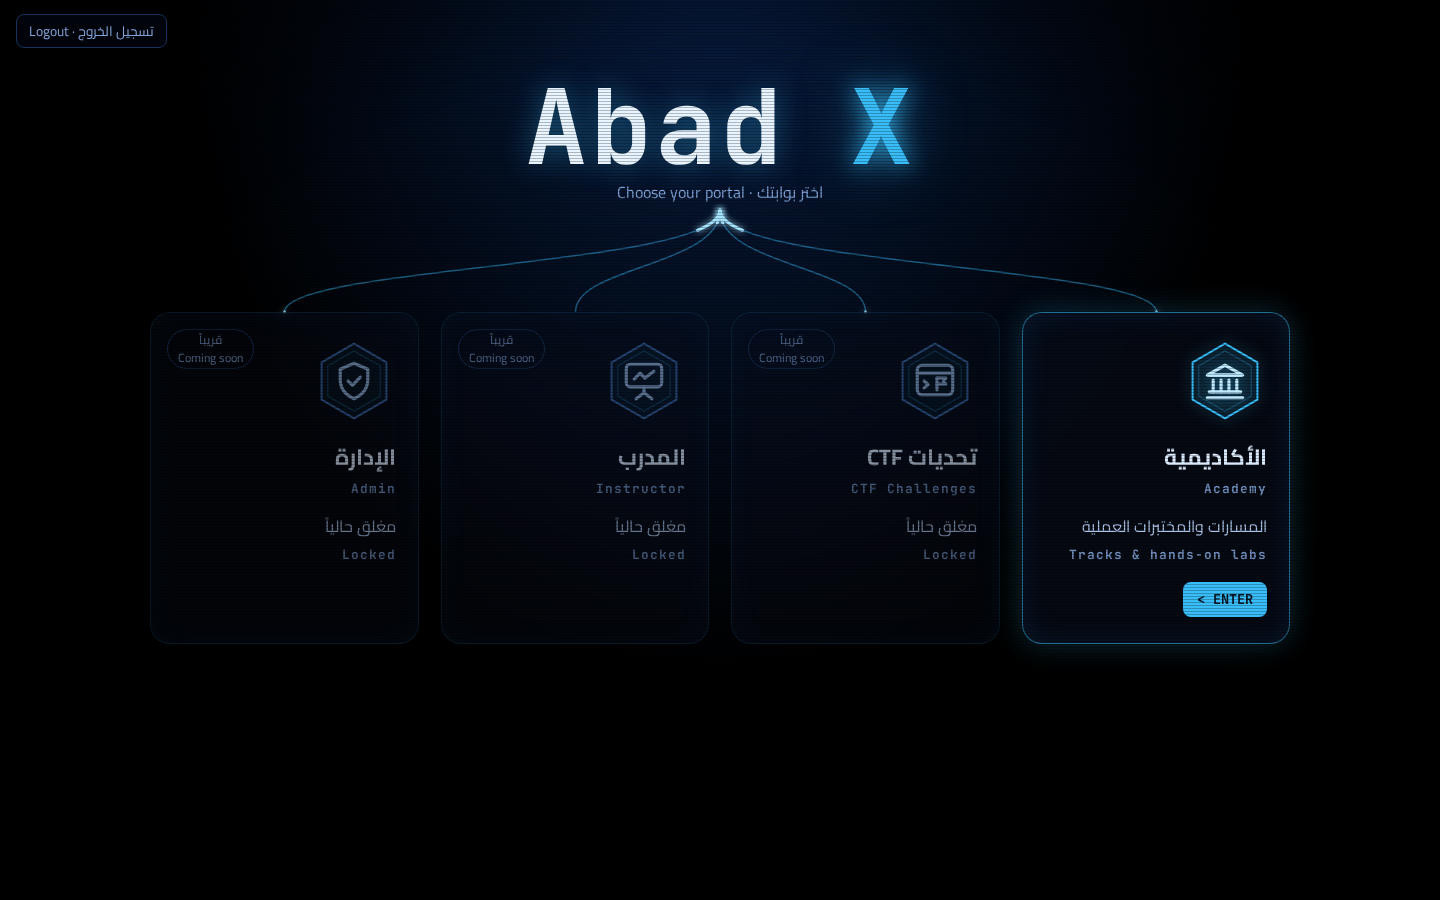
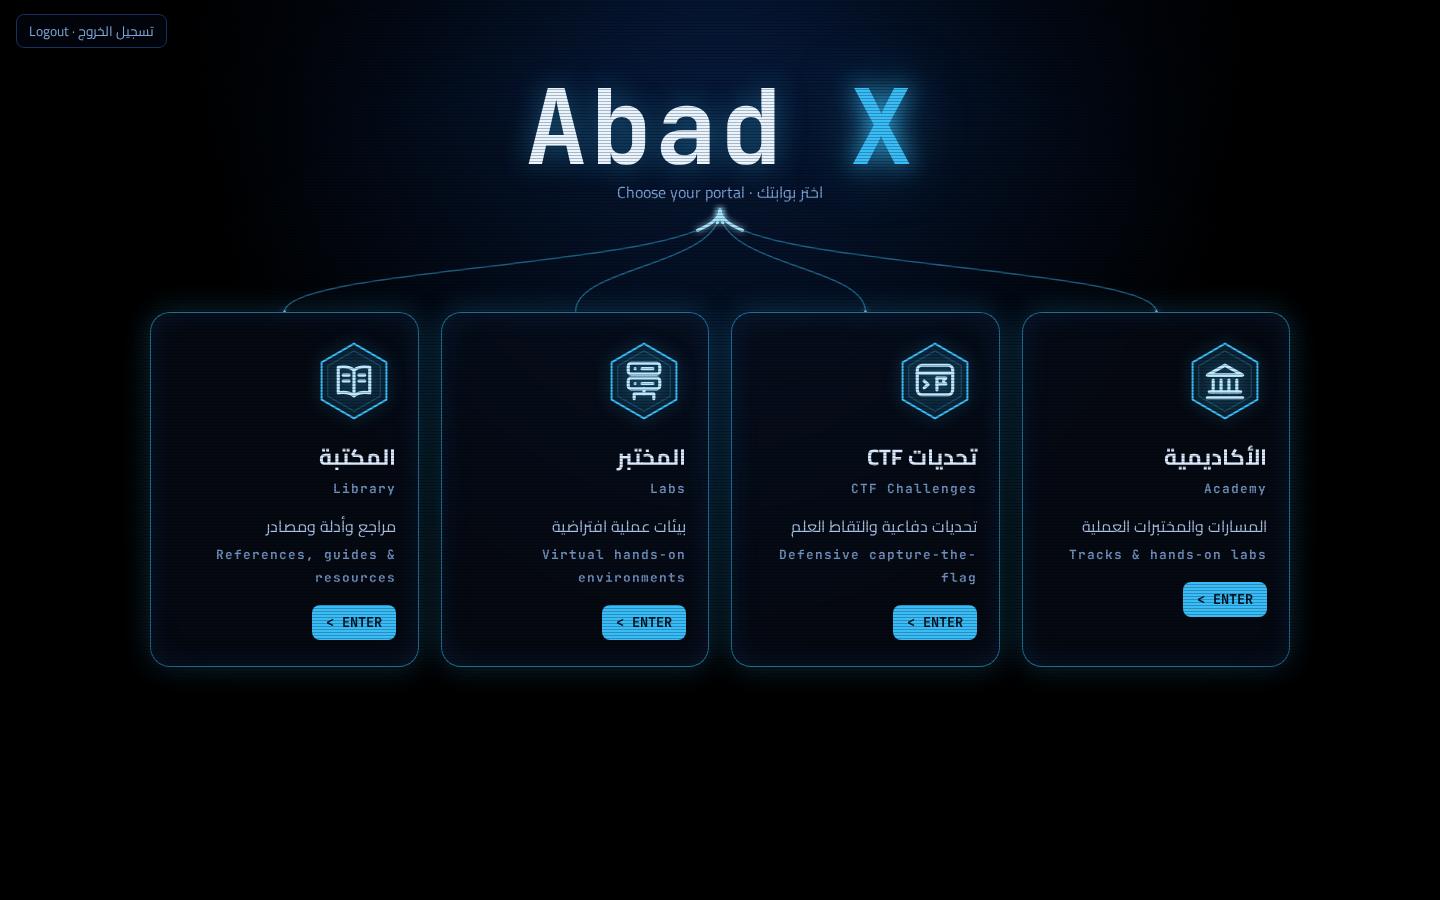
Portal: four active cards (Academy, CTF, Labs, Library) + placeholders

Changed region(s): [[0.0938, 0.3422, 0.875, 0.7467], [0.625, 0.3733, 0.6875, 0.4667], [0.3438, 0.3733, 0.375, 0.4044]]

diff --git a/portal.html b/portal.html
@@ -25,9 +25,6 @@ body:after{content:"";position:fixed;inset:0;pointer-events:none;z-index:9;backg
 .emb{width:84px;height:84px;display:block;margin-bottom:14px;overflow:visible;filter:drop-shadow(0 0 8px rgba(56,189,248,.55))}
 .emb .fr{fill:rgba(56,189,248,.06);stroke:#38bdf8;stroke-width:1.5;stroke-linejoin:round}.emb .fr2{fill:none;stroke:#38bdf8;stroke-opacity:.25;stroke-width:1}
 .emb .gl{fill:none;stroke:#bfe9ff;stroke-width:1.6;stroke-linecap:round;stroke-linejoin:round}
-.pc.lock .emb{filter:none}.pc.lock .emb .fr{stroke:#3b6aa8}.pc.lock .emb .gl{stroke:#8fb0d8}
-.pc.lock{opacity:.6;cursor:not-allowed}.pc.lock .ic{filter:grayscale(.6)}
-.soon{position:absolute;top:16px;left:16px;font-size:.75rem;border:1px solid #1d3a66;color:#7fa3d6;border-radius:99px;padding:1px 10px;text-align:center;line-height:1.5}
 .wires{position:absolute;top:0;left:0;z-index:1;pointer-events:none;overflow:visible}
 .wb{fill:none;stroke:rgba(56,189,248,.45);stroke-width:1.5}
 .wp{fill:none;stroke:#a5e4ff;stroke-width:3;stroke-linecap:round;stroke-dasharray:70 930;stroke-dashoffset:1000;animation:pulse 2.8s linear infinite}
@@ -40,9 +37,9 @@ body:after{content:"";position:fixed;inset:0;pointer-events:none;z-index:9;backg
 <h1 class="wm" id="wm">Abad <b>X</b><small>اختر بوابتك · Choose your portal</small></h1>
 <nav class="cards" aria-label="البوابات">
 <a class="pc on" href="academy.html"><svg class="emb" viewBox="0 0 64 64" aria-hidden="true"><path class="fr" d="M32 3.5 56.7 17.75v28.5L32 60.5 7.3 46.25v-28.5z"/><path class="fr2" d="M32 9 52 20.5v23L32 55 12 43.5v-23z"/><g class="gl" transform="translate(14 14) scale(1.5)"><path d="M3 9 12 4l9 5z"/><path d="M4 9h16"/><path d="M6 11.5v6"/><path d="M10 11.5v6"/><path d="M14 11.5v6"/><path d="M18 11.5v6"/><path d="M4 17.5h16"/><path d="M3 20.5h18"/></g></svg><h2>الأكاديمية <span class="en">Academy</span></h2><p>المسارات والمختبرات العملية <span class="en">Tracks &amp; hands-on labs</span></p><span class="go" aria-hidden="true">ENTER &gt;</span></a>
-<div class="pc lock" aria-disabled="true"><span class="soon">قريباً<br>Coming soon</span><svg class="emb" viewBox="0 0 64 64" aria-hidden="true"><path class="fr" d="M32 3.5 56.7 17.75v28.5L32 60.5 7.3 46.25v-28.5z"/><path class="fr2" d="M32 9 52 20.5v23L32 55 12 43.5v-23z"/><g class="gl" transform="translate(14 14) scale(1.5)"><rect x="3" y="4" width="18" height="15" rx="2.5"/><path d="M3 8h18"/><path d="m6.5 12 2 1.75-2 1.75"/><path d="M13 16.5v-6"/><path d="M13 10.5h4.5l-1.2 1.5 1.2 1.5H13"/></g></svg><h2>تحديات CTF <span class="en">CTF Challenges</span></h2><p>مغلق حالياً <span class="en">Locked</span></p></div>
-<div class="pc lock" aria-disabled="true"><span class="soon">قريباً<br>Coming soon</span><svg class="emb" viewBox="0 0 64 64" aria-hidden="true"><path class="fr" d="M32 3.5 56.7 17.75v28.5L32 60.5 7.3 46.25v-28.5z"/><path class="fr2" d="M32 9 52 20.5v23L32 55 12 43.5v-23z"/><g class="gl" transform="translate(14 14) scale(1.5)"><rect x="3" y="3.5" width="18" height="11.5" rx="2"/><path d="m7 11 3-3 2.5 2.5L17 7"/><path d="M12 15v3"/><path d="m8 21 4-3 4 3"/></g></svg><h2>المدرب <span class="en">Instructor</span></h2><p>مغلق حالياً <span class="en">Locked</span></p></div>
-<div class="pc lock" aria-disabled="true"><span class="soon">قريباً<br>Coming soon</span><svg class="emb" viewBox="0 0 64 64" aria-hidden="true"><path class="fr" d="M32 3.5 56.7 17.75v28.5L32 60.5 7.3 46.25v-28.5z"/><path class="fr2" d="M32 9 52 20.5v23L32 55 12 43.5v-23z"/><g class="gl" transform="translate(14 14) scale(1.5)"><path d="M12 3 19 6v5.2c0 4.4-2.9 7.9-7 9.8-4.1-1.9-7-5.4-7-9.8V6z"/><path d="m9 12 2.2 2.2L15.2 10"/></g></svg><h2>الإدارة <span class="en">Admin</span></h2><p>مغلق حالياً <span class="en">Locked</span></p></div>
+<a class="pc on" href="ctf.html"><svg class="emb" viewBox="0 0 64 64" aria-hidden="true"><path class="fr" d="M32 3.5 56.7 17.75v28.5L32 60.5 7.3 46.25v-28.5z"/><path class="fr2" d="M32 9 52 20.5v23L32 55 12 43.5v-23z"/><g class="gl" transform="translate(14 14) scale(1.5)"><rect x="3" y="4" width="18" height="15" rx="2.5"/><path d="M3 8h18"/><path d="m6.5 12 2 1.75-2 1.75"/><path d="M13 16.5v-6"/><path d="M13 10.5h4.5l-1.2 1.5 1.2 1.5H13"/></g></svg><h2>تحديات CTF <span class="en">CTF Challenges</span></h2><p>تحديات دفاعية والتقاط العلم <span class="en">Defensive capture-the-flag</span></p><span class="go" aria-hidden="true">ENTER &gt;</span></a>
+<a class="pc on" href="labs.html"><svg class="emb" viewBox="0 0 64 64" aria-hidden="true"><path class="fr" d="M32 3.5 56.7 17.75v28.5L32 60.5 7.3 46.25v-28.5z"/><path class="fr2" d="M32 9 52 20.5v23L32 55 12 43.5v-23z"/><g class="gl" transform="translate(14 14) scale(1.5)"><rect x="4" y="3" width="16" height="5.5" rx="1.5"/><rect x="4" y="10.5" width="16" height="5.5" rx="1.5"/><path d="M7.5 5.75h.01"/><path d="M7.5 13.25h.01"/><path d="M11 5.75h5.5"/><path d="M11 13.25h5.5"/><path d="M12 16v2.5"/><path d="M7 21v-2.5h10V21"/></g></svg><h2>المختبر <span class="en">Labs</span></h2><p>بيئات عملية افتراضية <span class="en">Virtual hands-on environments</span></p><span class="go" aria-hidden="true">ENTER &gt;</span></a>
+<a class="pc on" href="library.html"><svg class="emb" viewBox="0 0 64 64" aria-hidden="true"><path class="fr" d="M32 3.5 56.7 17.75v28.5L32 60.5 7.3 46.25v-28.5z"/><path class="fr2" d="M32 9 52 20.5v23L32 55 12 43.5v-23z"/><g class="gl" transform="translate(14 14) scale(1.5)"><path d="M12 6.5C10 4.9 7 4.5 4 5v13c3-.5 6-.1 8 1.5 2-1.6 5-2 8-1.5V5c-3-.5-6-.1-8 1.5z"/><path d="M12 6.5v13"/><path d="M6.5 9h3"/><path d="M14.5 9h3"/><path d="M6.5 12h3"/><path d="M14.5 12h3"/></g></svg><h2>المكتبة <span class="en">Library</span></h2><p>مراجع وأدلة ومصادر <span class="en">References, guides & resources</span></p><span class="go" aria-hidden="true">ENTER &gt;</span></a>
 </nav></main>
 <script>
 if(location.search.includes("still"))document.body.classList.add("still");

diff --git a/ctf.html b/ctf.html
@@ -1,0 +1,22 @@
+<!doctype html><html lang="ar" dir="rtl"><head><meta charset="utf-8"><meta name="viewport" content="width=device-width,initial-scale=1">
+<title>Abad X | تحديات CTF</title><link rel="icon" href="assets/favicon.svg" type="image/svg+xml"><link rel="icon" href="assets/favicon-32.png" sizes="32x32"><link rel="apple-touch-icon" href="assets/apple-touch-icon.png">
+<link href="https://fonts.googleapis.com/css2?family=JetBrains+Mono:wght@700&display=swap" rel="stylesheet"><link rel="stylesheet" href="assets/style.css">
+<style>
+:root{--mono:'JetBrains Mono','Fira Code',ui-monospace,'DejaVu Sans Mono',monospace;--b:#38bdf8}
+body{min-height:100vh;display:grid;place-items:center;background:radial-gradient(ellipse at 50% -10%,rgba(29,111,255,.28),transparent 55%),#000}
+body:after{content:"";position:fixed;inset:0;pointer-events:none;background:repeating-linear-gradient(0deg,rgba(0,0,0,.25) 0 1px,transparent 1px 3px),radial-gradient(ellipse at center,transparent 60%,rgba(0,0,0,.8))}
+main{text-align:center;padding:40px 20px;width:min(560px,94vw)}
+.wm{font-family:var(--mono);font-size:clamp(2.6rem,9vw,4.5rem);margin:0;color:#e8f4ff;letter-spacing:3px;text-shadow:0 0 30px rgba(56,189,248,.45);line-height:1.1}.wm b{color:var(--b);text-shadow:0 0 24px var(--b)}
+.card{margin-top:34px;padding:32px 24px;border-radius:20px;background:rgba(8,14,28,.62);backdrop-filter:blur(14px);border:1px solid rgba(56,189,248,.45);box-shadow:0 0 30px rgba(56,189,248,.2)}
+.card img{width:72px;filter:drop-shadow(0 0 14px rgba(56,189,248,.6))}
+h2{margin:10px 0 0;font-size:1.7rem}.en{display:block;font-family:var(--mono);font-size:.85rem;color:#6f8fbd;letter-spacing:1px}
+.uc{display:inline-block;margin-top:18px;border:1px dashed #1d3a66;border-radius:99px;padding:4px 16px;color:#a9c3e6}
+.cur{display:inline-block;width:.55em;height:1em;background:var(--b);vertical-align:-2px;margin-inline-start:4px;animation:bl 1s steps(1) infinite}@keyframes bl{50%{opacity:0}}
+.back{display:inline-block;margin-top:24px;border:1px solid #16325c;border-radius:8px;padding:6px 16px;color:#7fa3d6}.back:hover{color:var(--b);border-color:var(--b)}
+@media (prefers-reduced-motion:reduce){.cur{animation:none}}
+</style></head><body><main>
+<h1 class="wm">Abad <b>X</b></h1>
+<section class="card" aria-labelledby="t"><img src="assets/abadx-logo.svg" alt=""><h2 id="t">تحديات CTF <span class="en">CTF Challenges</span></h2>
+<p class="uc">قيد البناء · Under construction<span class="cur" aria-hidden="true"></span></p></section>
+<a class="back" href="portal.html">→ العودة إلى البوابة · Back to portal</a>
+</main></body></html>

diff --git a/library.html b/library.html
@@ -1,0 +1,22 @@
+<!doctype html><html lang="ar" dir="rtl"><head><meta charset="utf-8"><meta name="viewport" content="width=device-width,initial-scale=1">
+<title>Abad X | المكتبة</title><link rel="icon" href="assets/favicon.svg" type="image/svg+xml"><link rel="icon" href="assets/favicon-32.png" sizes="32x32"><link rel="apple-touch-icon" href="assets/apple-touch-icon.png">
+<link href="https://fonts.googleapis.com/css2?family=JetBrains+Mono:wght@700&display=swap" rel="stylesheet"><link rel="stylesheet" href="assets/style.css">
+<style>
+:root{--mono:'JetBrains Mono','Fira Code',ui-monospace,'DejaVu Sans Mono',monospace;--b:#38bdf8}
+body{min-height:100vh;display:grid;place-items:center;background:radial-gradient(ellipse at 50% -10%,rgba(29,111,255,.28),transparent 55%),#000}
+body:after{content:"";position:fixed;inset:0;pointer-events:none;background:repeating-linear-gradient(0deg,rgba(0,0,0,.25) 0 1px,transparent 1px 3px),radial-gradient(ellipse at center,transparent 60%,rgba(0,0,0,.8))}
+main{text-align:center;padding:40px 20px;width:min(560px,94vw)}
+.wm{font-family:var(--mono);font-size:clamp(2.6rem,9vw,4.5rem);margin:0;color:#e8f4ff;letter-spacing:3px;text-shadow:0 0 30px rgba(56,189,248,.45);line-height:1.1}.wm b{color:var(--b);text-shadow:0 0 24px var(--b)}
+.card{margin-top:34px;padding:32px 24px;border-radius:20px;background:rgba(8,14,28,.62);backdrop-filter:blur(14px);border:1px solid rgba(56,189,248,.45);box-shadow:0 0 30px rgba(56,189,248,.2)}
+.card img{width:72px;filter:drop-shadow(0 0 14px rgba(56,189,248,.6))}
+h2{margin:10px 0 0;font-size:1.7rem}.en{display:block;font-family:var(--mono);font-size:.85rem;color:#6f8fbd;letter-spacing:1px}
+.uc{display:inline-block;margin-top:18px;border:1px dashed #1d3a66;border-radius:99px;padding:4px 16px;color:#a9c3e6}
+.cur{display:inline-block;width:.55em;height:1em;background:var(--b);vertical-align:-2px;margin-inline-start:4px;animation:bl 1s steps(1) infinite}@keyframes bl{50%{opacity:0}}
+.back{display:inline-block;margin-top:24px;border:1px solid #16325c;border-radius:8px;padding:6px 16px;color:#7fa3d6}.back:hover{color:var(--b);border-color:var(--b)}
+@media (prefers-reduced-motion:reduce){.cur{animation:none}}
+</style></head><body><main>
+<h1 class="wm">Abad <b>X</b></h1>
+<section class="card" aria-labelledby="t"><img src="assets/abadx-logo.svg" alt=""><h2 id="t">المكتبة <span class="en">Library</span></h2>
+<p class="uc">قيد البناء · Under construction<span class="cur" aria-hidden="true"></span></p></section>
+<a class="back" href="portal.html">→ العودة إلى البوابة · Back to portal</a>
+</main></body></html>

diff --git a/labs.html b/labs.html
@@ -1,0 +1,22 @@
+<!doctype html><html lang="ar" dir="rtl"><head><meta charset="utf-8"><meta name="viewport" content="width=device-width,initial-scale=1">
+<title>Abad X | المختبر</title><link rel="icon" href="assets/favicon.svg" type="image/svg+xml"><link rel="icon" href="assets/favicon-32.png" sizes="32x32"><link rel="apple-touch-icon" href="assets/apple-touch-icon.png">
+<link href="https://fonts.googleapis.com/css2?family=JetBrains+Mono:wght@700&display=swap" rel="stylesheet"><link rel="stylesheet" href="assets/style.css">
+<style>
+:root{--mono:'JetBrains Mono','Fira Code',ui-monospace,'DejaVu Sans Mono',monospace;--b:#38bdf8}
+body{min-height:100vh;display:grid;place-items:center;background:radial-gradient(ellipse at 50% -10%,rgba(29,111,255,.28),transparent 55%),#000}
+body:after{content:"";position:fixed;inset:0;pointer-events:none;background:repeating-linear-gradient(0deg,rgba(0,0,0,.25) 0 1px,transparent 1px 3px),radial-gradient(ellipse at center,transparent 60%,rgba(0,0,0,.8))}
+main{text-align:center;padding:40px 20px;width:min(560px,94vw)}
+.wm{font-family:var(--mono);font-size:clamp(2.6rem,9vw,4.5rem);margin:0;color:#e8f4ff;letter-spacing:3px;text-shadow:0 0 30px rgba(56,189,248,.45);line-height:1.1}.wm b{color:var(--b);text-shadow:0 0 24px var(--b)}
+.card{margin-top:34px;padding:32px 24px;border-radius:20px;background:rgba(8,14,28,.62);backdrop-filter:blur(14px);border:1px solid rgba(56,189,248,.45);box-shadow:0 0 30px rgba(56,189,248,.2)}
+.card img{width:72px;filter:drop-shadow(0 0 14px rgba(56,189,248,.6))}
+h2{margin:10px 0 0;font-size:1.7rem}.en{display:block;font-family:var(--mono);font-size:.85rem;color:#6f8fbd;letter-spacing:1px}
+.uc{display:inline-block;margin-top:18px;border:1px dashed #1d3a66;border-radius:99px;padding:4px 16px;color:#a9c3e6}
+.cur{display:inline-block;width:.55em;height:1em;background:var(--b);vertical-align:-2px;margin-inline-start:4px;animation:bl 1s steps(1) infinite}@keyframes bl{50%{opacity:0}}
+.back{display:inline-block;margin-top:24px;border:1px solid #16325c;border-radius:8px;padding:6px 16px;color:#7fa3d6}.back:hover{color:var(--b);border-color:var(--b)}
+@media (prefers-reduced-motion:reduce){.cur{animation:none}}
+</style></head><body><main>
+<h1 class="wm">Abad <b>X</b></h1>
+<section class="card" aria-labelledby="t"><img src="assets/abadx-logo.svg" alt=""><h2 id="t">المختبر <span class="en">Labs</span></h2>
+<p class="uc">قيد البناء · Under construction<span class="cur" aria-hidden="true"></span></p></section>
+<a class="back" href="portal.html">→ العودة إلى البوابة · Back to portal</a>
+</main></body></html>
